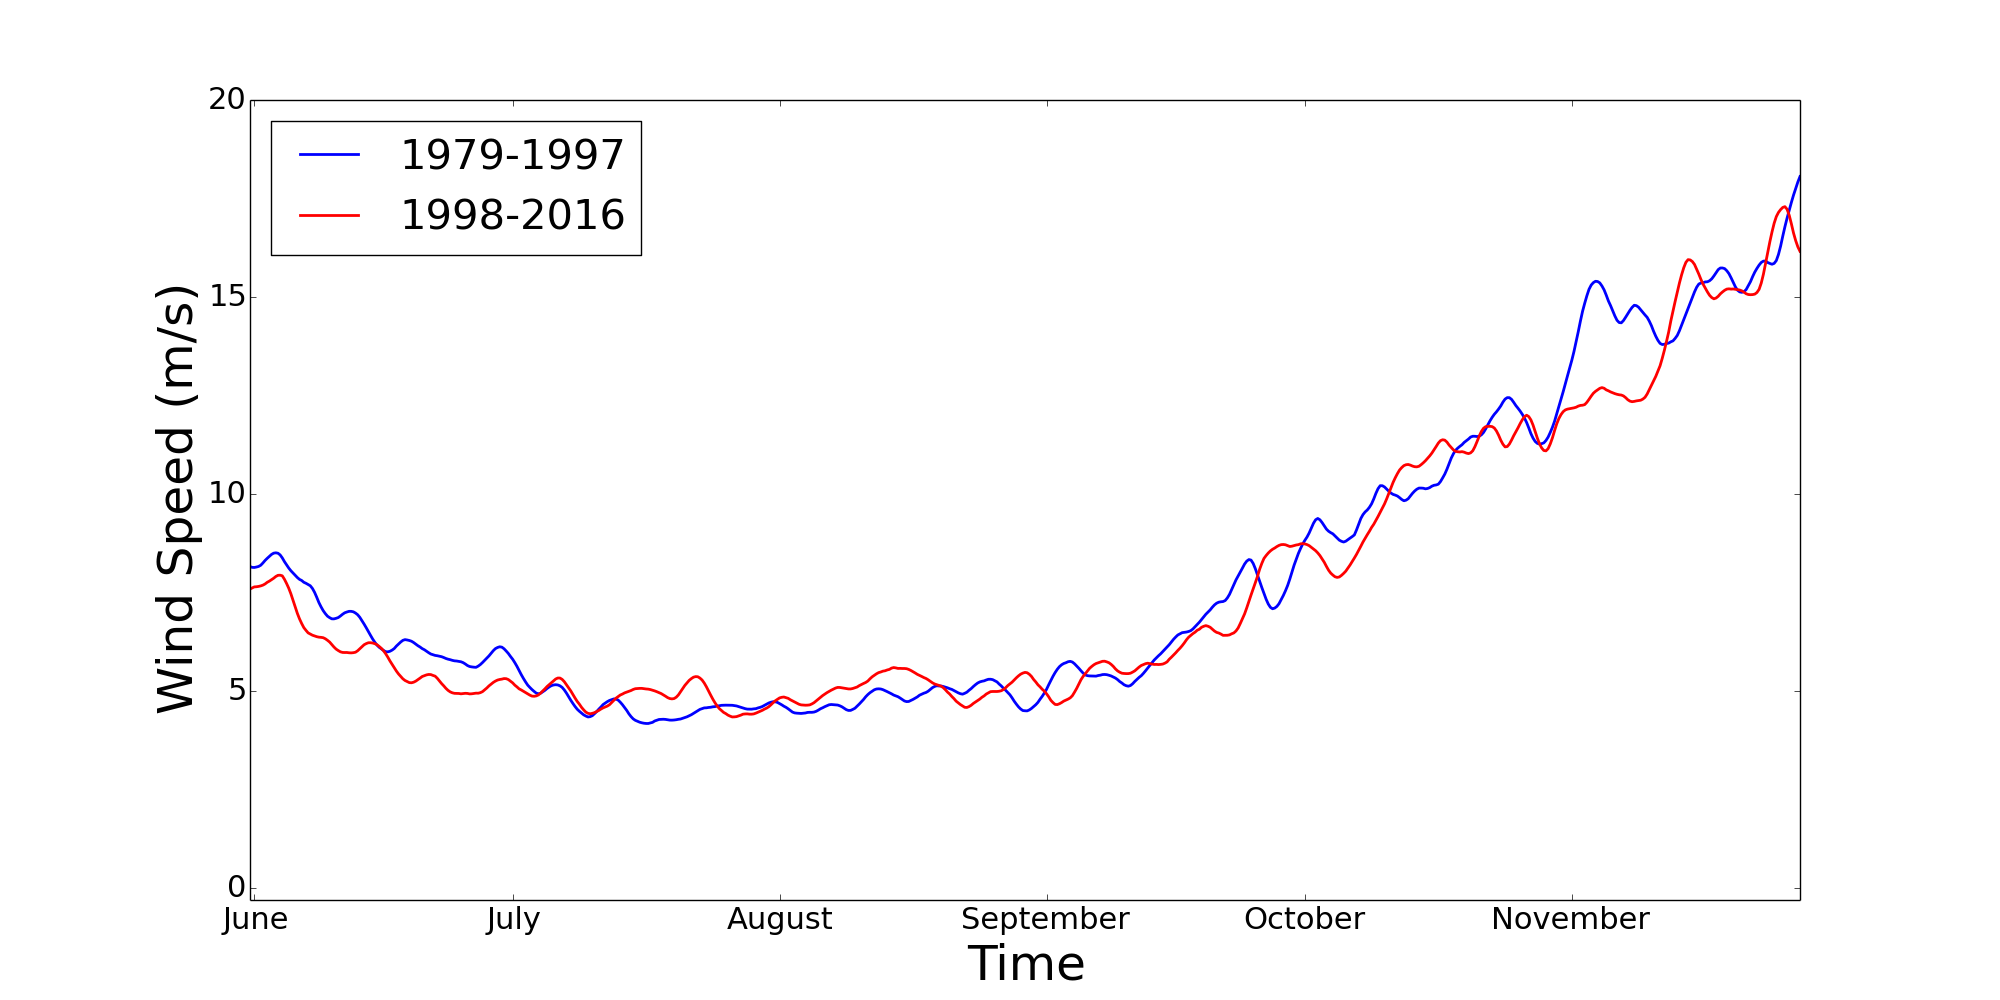
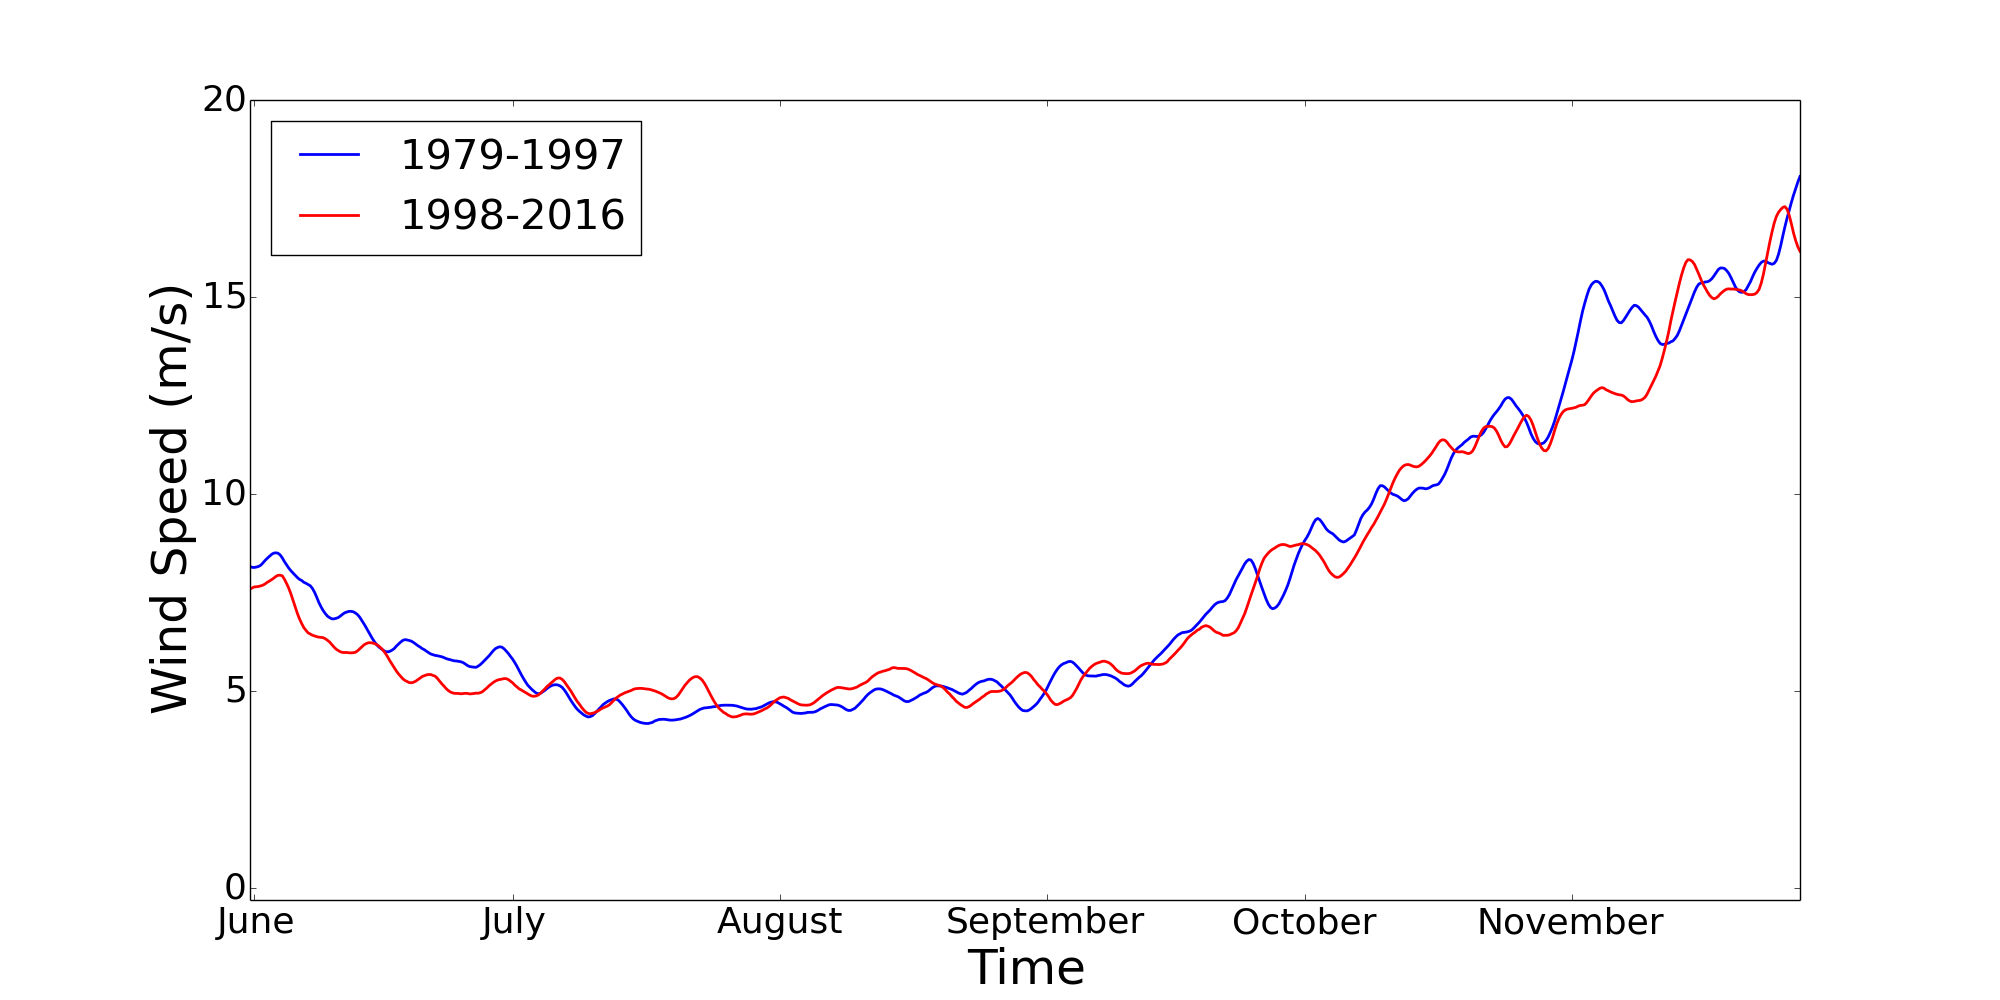
Even more figure updates

diff --git a/DLM_stats.py b/DLM_stats.py
@@ -1451,7 +1451,7 @@ avg_wind_speeds_98_16, dates_and_times_1y = averageWindsEachTime(wind_speeds_98_
 
 # Plot the averaged wind speeds
 fig, ax = plt.subplots(1, figsize = (20,10))
-ax.tick_params(labelsize = 22)
+ax.tick_params(labelsize = 26)
 ax.plot(dates_and_times_1y, avg_wind_speeds_79_97, 'b-', linewidth = 2, label = '1979-1997')
 ax.plot(dates_and_times_1y, avg_wind_speeds_98_16, 'r-', linewidth = 2, label = '1998-2016')
 ax.set_ylim(ymin = -0.3)
@@ -1606,7 +1606,7 @@ plt.savefig('Figures/WS_Diff_79-97_98-16/Filtered_Norm_Wind_Speeds_' + location_
 plt.show()
 
 # Determine differences in the translation speed frequencies between the two time periods
-i = 0
+'''i = 0
 trans_speed_freq_diff = [0] * len(trans_speed_freq_79_97)
 norm_trans_speed_freq_diff = [0] * len(norm_trans_speed_freq_79_97)
 while i < len(trans_speed_freq_79_97):
@@ -1616,7 +1616,7 @@ while i < len(trans_speed_freq_79_97):
 
 # Create a histogram that shows the difference between the wind speed frequencies for
 # the two time periods
-'''plt.figure(1, figsize = (20,15))
+plt.figure(1, figsize = (20,15))
 plt.bar(np.arange(len(norm_trans_speed_freq_diff)), norm_trans_speed_freq_diff)
 plt.xlim(xmax = max_wind_speed + 1)
 plt.ylabel('Frequency Difference (%)')
@@ -2092,61 +2092,72 @@ plt.savefig('Figures/WS_Diff_79-97_98-16_Nov/Filtered_Norm_Wind_Speeds_' + locat
 plt.show()'''
 
 # Generate 3x2 subplots of frequency differences for June, July, August, September, October, and November
+# Also add subplot for whole season
 plt.figure(1, figsize = (30,30))
-plt.subplot(321)
+plt.subplot2grid((4,8), (0,2), colspan = 4)
+plt.bar(np.arange(len(norm_wind_speed_freq_diff)), norm_wind_speed_freq_diff)
+plt.xlim(xmax = max_wind_speed + 1)
+if region == 'AL':
+    plt.ylim(ymax = 2.5, ymin = -1.7)
+plt.ylabel('Frequency Difference (%)')
+plt.xlabel('Wind Speed (m/s)')
+plt.title('a.) Whole Hurricane Season')
+
+plt.figure(1, figsize = (30,30))
+plt.subplot(423)
 plt.bar(np.arange(len(norm_wind_speed_freq_June_diff)), norm_wind_speed_freq_June_diff)
 plt.xlim(xmax = max_wind_speed + 1)
 if region == 'AL':
-    plt.ylim(ymax = 2.5, ymin = -1.6)
+    plt.ylim(ymax = 2.5, ymin = -1.7)
 plt.ylabel('Frequency Difference (%)')
 plt.xlabel('Wind Speed (m/s)')
-plt.title('a.) June')
+plt.title('b.) June')
 #plt.suptitle('Difference Between Normalized Frequencies of Wind Speeds', fontsize = 35)
 
-plt.subplot(322)
+plt.subplot(424)
 plt.bar(np.arange(len(norm_wind_speed_freq_July_diff)), norm_wind_speed_freq_July_diff)
 plt.xlim(xmax = max_wind_speed + 1)
 if region == 'AL':
-    plt.ylim(ymax = 2.5, ymin = -1.6)
+    plt.ylim(ymax = 2.5, ymin = -1.7)
 plt.ylabel('Frequency Difference (%)')
 plt.xlabel('Wind Speed (m/s)')
-plt.title('b.) July')
+plt.title('c.) July')
 
-plt.subplot(323)
+plt.subplot(425)
 plt.bar(np.arange(len(norm_wind_speed_freq_Aug_diff)), norm_wind_speed_freq_Aug_diff)
 plt.xlim(xmax = max_wind_speed + 1)
 if region == 'AL':
-    plt.ylim(ymax = 2.5, ymin = -1.6)
+    plt.ylim(ymax = 2.5, ymin = -1.7)
 plt.ylabel('Frequency Difference (%)')
 plt.xlabel('Wind Speed (m/s)')
-plt.title('c.) August')
+plt.title('d.) August')
 
-plt.subplot(324)
+plt.subplot(426)
 plt.bar(np.arange(len(norm_wind_speed_freq_Sep_diff)), norm_wind_speed_freq_Sep_diff)
 plt.xlim(xmax = max_wind_speed + 1)
 if region == 'AL':
-    plt.ylim(ymax = 2.5, ymin = -1.6)
+    plt.ylim(ymax = 2.5, ymin = -1.7)
 plt.ylabel('Frequency Difference (%)')
 plt.xlabel('Wind Speed (m/s)')
-plt.title('d.) September')
+plt.title('e.) September')
 
-plt.subplot(325)
+plt.subplot(427)
 plt.bar(np.arange(len(norm_wind_speed_freq_Oct_diff)), norm_wind_speed_freq_Oct_diff)
 plt.xlim(xmax = max_wind_speed + 1)
 if region == 'AL':
-    plt.ylim(ymax = 2.5, ymin = -1.6)
+    plt.ylim(ymax = 2.5, ymin = -1.7)
 plt.ylabel('Frequency Difference (%)')
 plt.xlabel('Wind Speed (m/s)')
-plt.title('e.) October')
+plt.title('f.) October')
 
-plt.subplot(326)
+plt.subplot(428)
 plt.bar(np.arange(len(norm_wind_speed_freq_Nov_diff)), norm_wind_speed_freq_Nov_diff)
 plt.xlim(xmax = max_wind_speed + 1)
 if region == 'AL':
-    plt.ylim(ymax = 2.5, ymin = -1.6)
+    plt.ylim(ymax = 2.5, ymin = -1.7)
 plt.ylabel('Frequency Difference (%)')
 plt.xlabel('Wind Speed (m/s)')
-plt.title('f.) November')
+plt.title('g.) November')
 
 plt.subplots_adjust(left = 0.125, bottom = 0.1, right = 0.9, top = 0.9, wspace = 0.25, hspace = 0.3)
 
@@ -2179,7 +2190,7 @@ for loc in locs:
     #    colorcode = '#ff0000'
 
     colorcode = '#ff0000'
-    m.scatter(loc[0], loc[1], 8, marker = 'o', color = colorcode, latlon = True, zorder = 10)
+    m.scatter(loc[0], loc[1], 10, marker = 'o', color = colorcode, latlon = True, zorder = 10)
 
 #plt.title('Locations of Data Points')
 plt.savefig('Figures/' + location_names[region][0]  + '/Wind_Speed_Measurement_Locations_' + location_names[region][0] + '.png')
